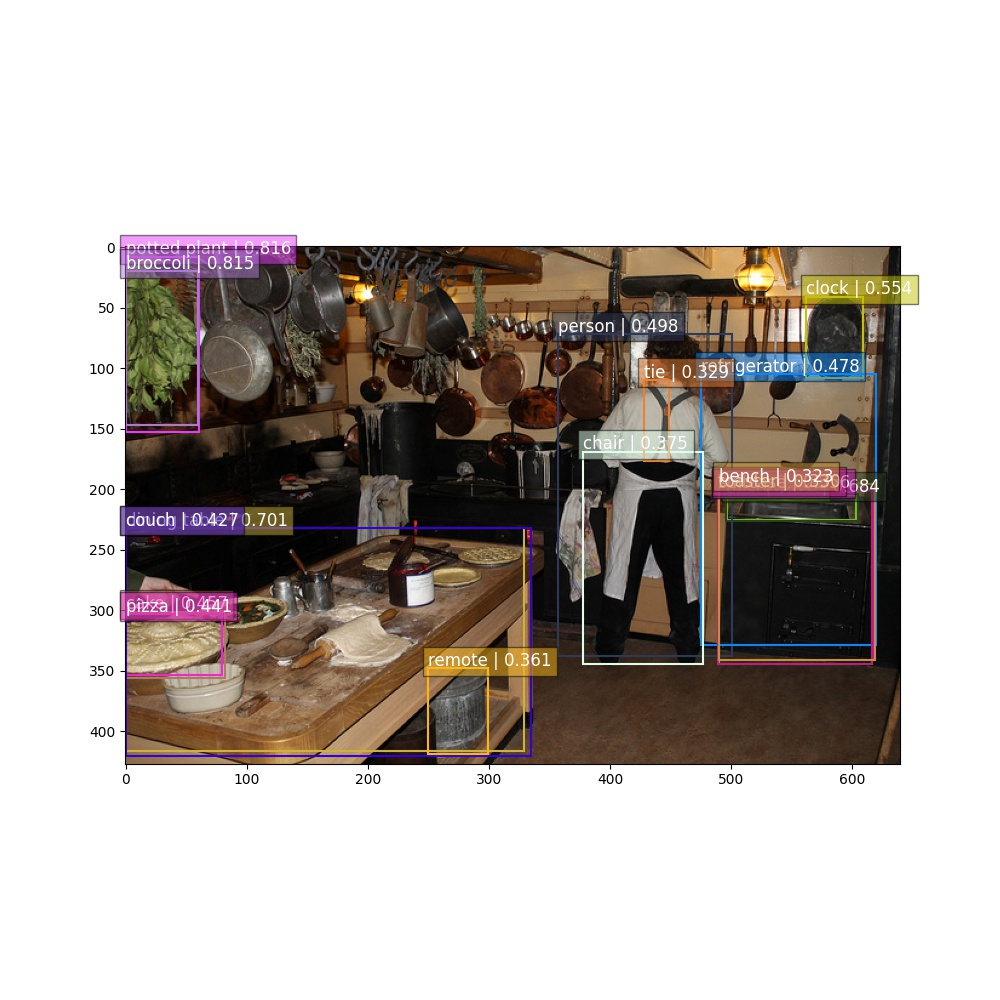
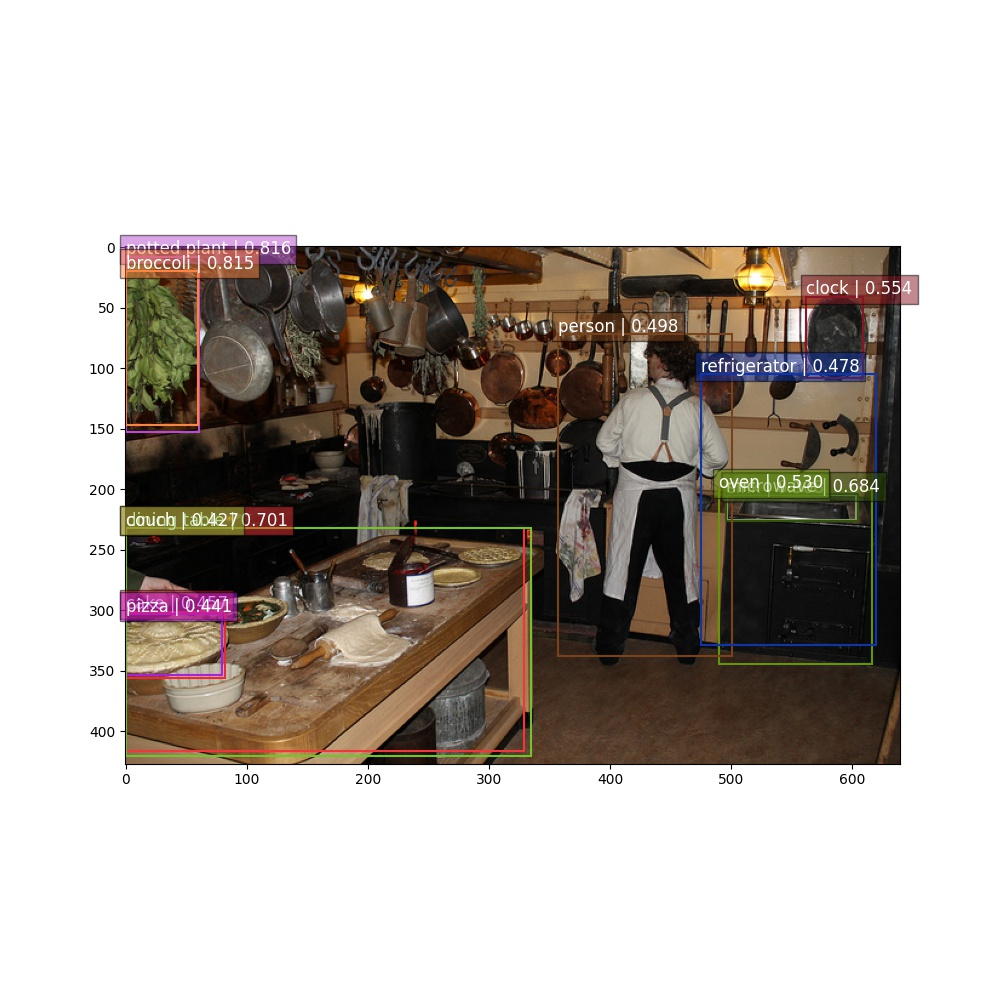
threshold select bboxes

Changed region(s): [[0.124, 0.248, 0.93, 0.775], [0.093, 0.217, 0.279, 0.434], [0.341, 0.527, 0.372, 0.558]]

diff --git a/postprocess.py b/postprocess.py
@@ -67,13 +67,22 @@ def vis_image(images, boxes, scores, labels, threshold, input_shape):
     src_image_size = cv2.resize(img_cv2, (w, h))
     cv2.imwrite("res_od.jpg", src_image_size)
 
-def plt_bboxes(img_path, classes, scores, bboxes, figsize=(10,10), linewidth=1.5):
+def plt_bboxes(img_path, classes, scores, bboxes, threshold, figsize=(10,10), linewidth=1.5):
     """Visualize bounding boxes. Largely inspired by SSD-MXNET!
     """
     img = mpimg.imread(img_path)
     bboxes= np.squeeze(bboxes, axis=0)
     classes= np.squeeze(classes, axis=0)
     scores = np.squeeze(scores, axis=0)
+    # 筛选出大于score threshold的box
+    number_boxes_list = []
+    for box_score in scores.tolist():
+        if box_score != 0. and box_score > threshold:
+            number_boxes_list.append(box_score)
+    number_boxes = len(number_boxes_list)
+    bboxes = bboxes[0 : number_boxes]
+    classes = classes[0 : number_boxes]
+
     fig = plt.figure(figsize=figsize)
     plt.imshow(img)
     height = img.shape[0]

diff --git a/test_object_detection_infer.py b/test_object_detection_infer.py
@@ -420,7 +420,8 @@ class TestModelConvertor(unittest.TestCase):
                 # op.vis_image(single_image_path, boxes, scores, labels, threshold, input_shape)
                 classes = labels 
                 bboxes = boxes
-                op.plt_bboxes(single_image_path, classes, scores, bboxes)
+                threshold = 0.4
+                op.plt_bboxes(single_image_path, classes, scores, bboxes, threshold)
 
                 # boxes_and_scores = op.get_boxes_and_scores(boxes, scores)
                 # thresh = 0.3
